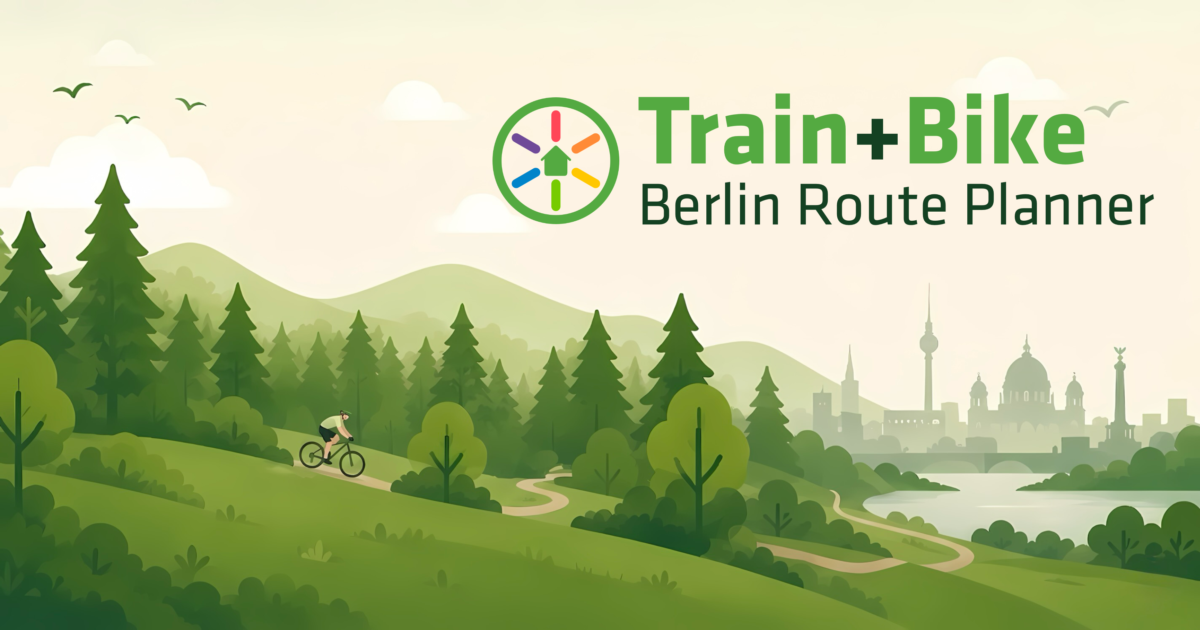
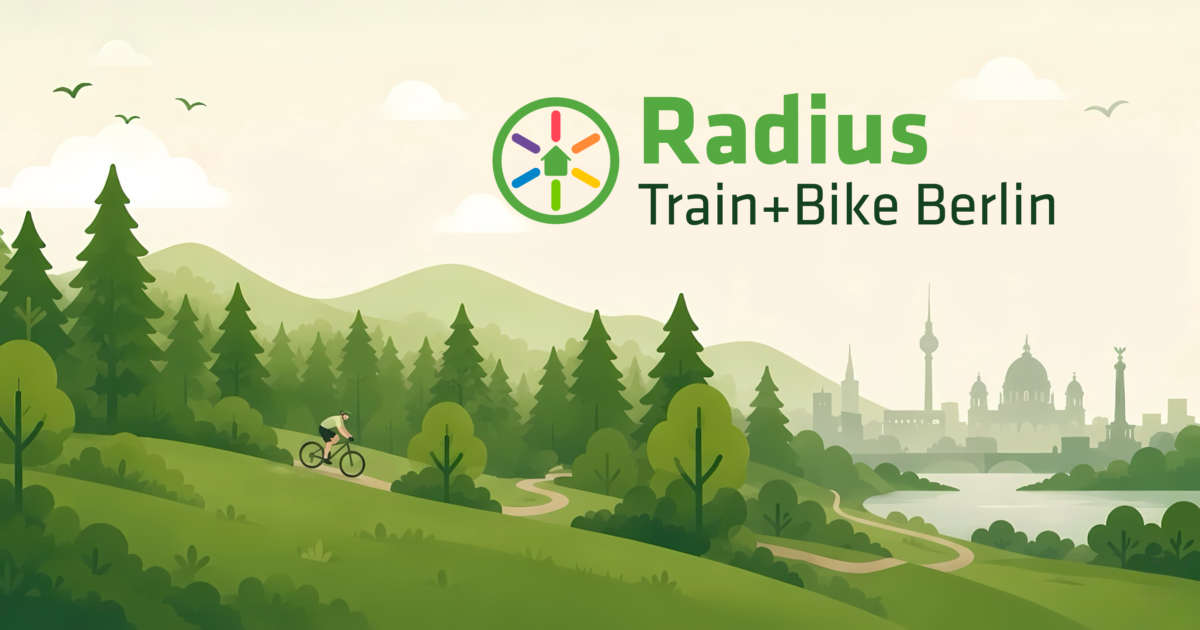
feat: serve at radius.kettner.berlin root and rebrand to "Radius"
- Set Vite base to '/' now that the app serves at the subdomain root
  instead of kettner.berlin/train-bike-planner/
- Update OG/Twitter URLs and share image to radius.kettner.berlin
- Rename app title and title meta tags to "Radius - Berlin Train+Bike"

Changed region(s): [[0.5242, 0.1508, 0.9558, 0.3619]]

diff --git a/index.html b/index.html
@@ -3,22 +3,22 @@
 <head>
   <meta charset="UTF-8" />
   <meta name="viewport" content="width=device-width, initial-scale=1.0, viewport-fit=cover" />
-  <title>Train + Bike — Berlin Tour Planner</title>
+  <title>Radius - Berlin Train+Bike</title>
   <meta name="description" content="Plan combined train and bike tours from Berlin. Find the perfect starting station for your desired cycling distance." />
 
   <!-- Open Graph / Facebook -->
   <meta property="og:type" content="website" />
-  <meta property="og:url" content="https://kettner.berlin/train-bike-planner/" />
-  <meta property="og:title" content="Train + Bike — Berlin Tour Planner" />
+  <meta property="og:url" content="https://radius.kettner.berlin/" />
+  <meta property="og:title" content="Radius - Berlin Train+Bike" />
   <meta property="og:description" content="Instead of having to cycle loops every time, Train + Bike helps you find cycle routes that start at a train station outside the city and then cycle back home. You define your target cycling distance and the route profile, and the app finds train connections to take you to the perfect starting point." />
-  <meta property="og:image" content="https://kettner.berlin/train-bike-planner/train-bike_1200x630.png" />
+  <meta property="og:image" content="https://radius.kettner.berlin/train-bike_1200x630.png" />
 
   <!-- Twitter -->
   <meta property="twitter:card" content="summary_large_image" />
-  <meta property="twitter:url" content="https://kettner.berlin/train-bike-planner/" />
-  <meta property="twitter:title" content="Train + Bike — Berlin Tour Planner" />
+  <meta property="twitter:url" content="https://radius.kettner.berlin/" />
+  <meta property="twitter:title" content="Radius - Berlin Train+Bike" />
   <meta property="twitter:description" content="Instead of having to cycle loops every time, Train + Bike helps you find cycle routes that start at a train station outside the city and then cycle back home. You define your target cycling distance and the route profile, and the app finds train connections to take you to the perfect starting point." />
-  <meta property="twitter:image" content="https://kettner.berlin/train-bike-planner/train-bike_1200x630.png" />
+  <meta property="twitter:image" content="https://radius.kettner.berlin/train-bike_1200x630.png" />
 
   <!-- Favicons -->
   <link rel="icon" type="image/x-icon" href="/favicon.ico" />
@@ -45,7 +45,7 @@
     <div class="panel-header">
       <div class="panel-title">
         <img src="/logo.svg" alt="" class="panel-logo" width="24" height="24" />
-        <span class="title-text">Train + Bike</span>
+        <span class="title-text">Radius - Berlin Train+Bike</span>
       </div>
       <button id="panel-collapse-btn" class="icon-btn" title="Collapse panel">
         <svg viewBox="0 0 24 24" fill="none" stroke="currentColor" stroke-width="2"><polyline points="18 15 12 9 6 15"></polyline></svg>

diff --git a/vite.config.js b/vite.config.js
@@ -1,7 +1,7 @@
 import { defineConfig } from 'vite'
 
 export default defineConfig({
-  base: process.env.NODE_ENV === 'production' ? '/train-bike-planner/' : '/',
+  base: '/',
   root: '.',
   publicDir: 'public',
   server: {
